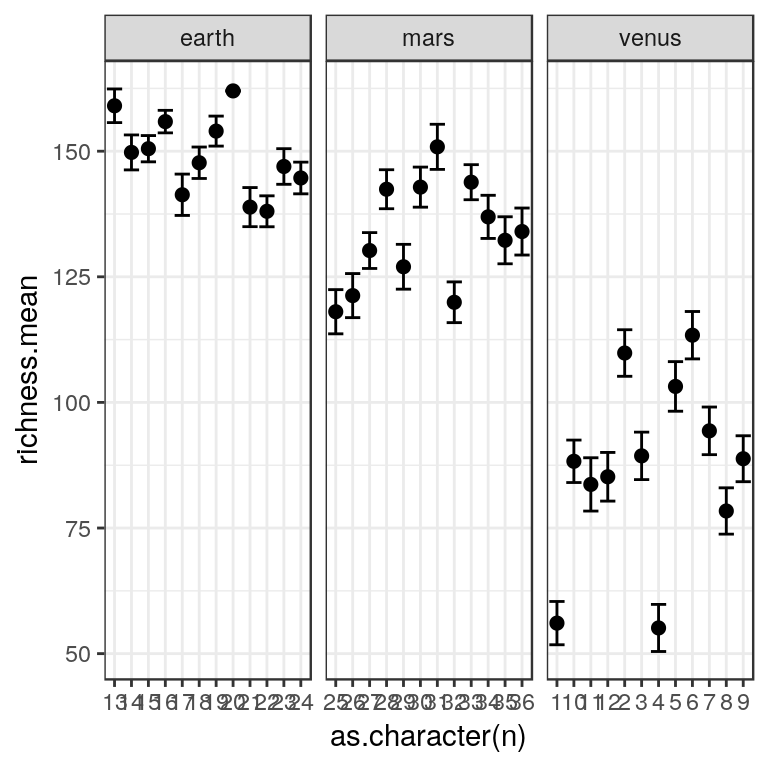
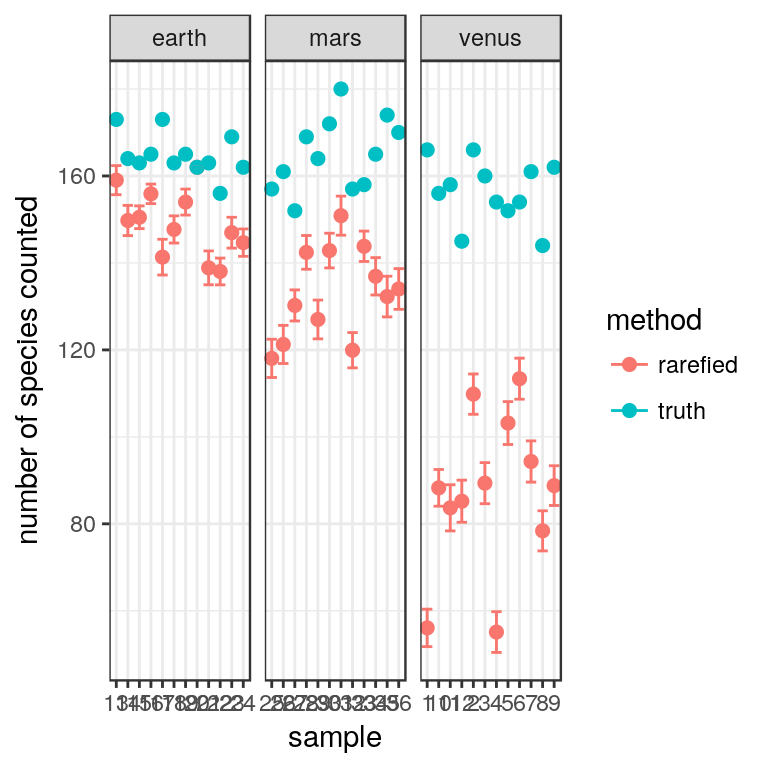
Added "truth" for rarefaction plot

diff --git a/docs/articles/CompoData.html b/docs/articles/CompoData.html
@@ -68,7 +68,7 @@
 <div id="e-g-in-microbiomes-or-transcriptomes" class="section level2">
 <h2 class="hasAnchor">
 <a href="#e-g-in-microbiomes-or-transcriptomes" class="anchor"></a>(e.g. in microbiomes or transcriptomes)</h2>
-<p>Standard analyses of abundance estimates genereated from sequencing treat the generated data as counts. Methods for differential abundance estimation in RNAseq data have probably recieved most attention in this regard (<a href="https://genomebiology.biomedcentral.com/articles/10.1186/s13059-014-0550-8">see e.g. this for one of the current approaches</a>). Many (if not all) of the methods developed for analyses of count data derived from transcriptomes are also applied to amplicon sequencing data. On the other hand techniques from classical community ecolgy are applied on data from transcriptomics or amplicon sequencing alike (mostly after <em>transforming</em> it to count data).</p>
+<p>Standard analyses of abundance estimates genereated from sequencing treat the generated data as counts. Methods for differential abundance estimation in RNAseq data have probably recieved most attention in this regard (<a href="https://genomebiology.biomedcentral.com/articles/10.1186/s13059-014-0550-8">see e.g. this for one of the current approaches</a>). Many (if not all) of the methods developed for analyses of count data derived from transcriptomes are also applied to amplicon sequencing data. On the other hand techniques from classical community ecology are applied on data from transcriptomics or amplicon sequencing alike (mostly after <em>transforming</em> it to count data).</p>
 <p>In the field of amplicon sequencing there are currently concernes that analysis of “compositional data” as counts can introduce biases (<a href="https://www.ncbi.nlm.nih.gov/pmc/articles/PMC5695134/">e.g. reviewd here</a>, refering in its core to <a href="https://www.amazon.de/Statistical-Compositional-Monographs-Statistics-Probability/dp/0412280604">Aitchison, J. (1986)</a>).</p>
 <p>This document aims to give an introduction to the challenges that are posed by compositional data produced to assess transcriptomes via RNAseq or microbiomes via amplicon sequencing. I will give an “abstract” introduction into:</p>
 <ol style="list-style-type: decimal">
@@ -256,12 +256,23 @@ rich.mat &lt;-<span class="st"> </span><span class="kw">matrix</span>(<span clas
 richness &lt;-<span class="st"> </span><span class="kw">data.frame</span>(<span class="dt">planet=</span>colData$planet,
                        <span class="dt">richness.mean=</span><span class="kw">rowMeans</span>(rich.mat),
                        <span class="dt">richness.sd=</span><span class="kw">apply</span>(rich.mat, <span class="dv">1</span>, sd),
-                       <span class="dt">n=</span><span class="dv">1</span>:<span class="kw">nrow</span>(rich.mat))
+                       <span class="dt">n=</span><span class="dv">1</span>:<span class="kw">nrow</span>(rich.mat),
+                       <span class="dt">method=</span><span class="st">"rarefied"</span>)
 
-<span class="kw">ggplot</span>(richness, <span class="kw">aes</span>(<span class="kw">as.character</span>(n), richness.mean)) +
+richness.plain &lt;-<span class="st"> </span><span class="kw">data.frame</span>(<span class="dt">planet=</span>colData$planet,
+                       <span class="dt">richness.mean=</span><span class="kw">colSums</span>(countData&gt;<span class="dv">0</span>), 
+                       <span class="dt">richness.sd=</span><span class="dv">0</span>,
+                       <span class="dt">n=</span><span class="dv">1</span>:<span class="kw">nrow</span>(rich.mat),
+                       <span class="dt">method=</span><span class="st">"truth"</span>)
+
+richness &lt;-<span class="st"> </span><span class="kw">rbind</span>(richness, richness.plain)
+
+<span class="kw">ggplot</span>(richness, <span class="kw">aes</span>(<span class="kw">as.character</span>(n), richness.mean, <span class="dt">color=</span>method)) +
 <span class="st">    </span><span class="kw">geom_point</span>(<span class="dt">size=</span><span class="dv">2</span>) +
 <span class="st">    </span><span class="kw">geom_errorbar</span>(<span class="kw">aes</span>(<span class="dt">ymin=</span>richness.mean-richness.sd,
-                      <span class="dt">ymax=</span>richness.mean+richness.sd))+
+                      <span class="dt">ymax=</span>richness.mean+richness.sd)) +
+<span class="st">    </span><span class="kw">scale_x_discrete</span>(<span class="st">"sample"</span>) +
+<span class="st">    </span><span class="kw">scale_y_continuous</span>(<span class="st">"number of species counted"</span>) +
 <span class="st">    </span><span class="kw">facet_wrap</span>(~planet, <span class="dt">scales=</span><span class="st">"free_x"</span>)</code></pre></div>
 <p><img src="CompoData_files/figure-html/unnamed-chunk-6-1.png" width="384"><img src="CompoData_files/figure-html/unnamed-chunk-6-2.png" width="384"></p>
 <p>Uh, we are screwed again!</p>
@@ -347,6 +358,63 @@ res.aldex &lt;-<span class="st"> </span><span class="kw"><a href="http://www.rdo
 <p><img src="CompoData_files/figure-html/unnamed-chunk-8-1.png" width="384"></p>
 <p>The problem here is that the neither the geometric mean nor the log can be calculated for zero-count samples. After our naive solution (adding a small number) we used a package which “converts the single estimate to a probability vector”. This uses Monte-Carlo sampling from the Dirichlet distribution (<a href="https://doi.org/10.17713/ajs.v45i4.122">ref</a>).</p>
 <div class="sourceCode"><pre class="sourceCode r"><code class="sourceCode r">res &lt;-<span class="st"> </span><span class="kw">merge</span>(res.aldex, <span class="kw">as.data.frame</span>(res.deseq), <span class="dt">by=</span><span class="dv">0</span>)
+<span class="co">#&gt; Loading required package: DESeq2</span>
+<span class="co">#&gt; Loading required package: S4Vectors</span>
+<span class="co">#&gt; Loading required package: stats4</span>
+<span class="co">#&gt; Loading required package: BiocGenerics</span>
+<span class="co">#&gt; Loading required package: parallel</span>
+<span class="co">#&gt; </span>
+<span class="co">#&gt; Attaching package: 'BiocGenerics'</span>
+<span class="co">#&gt; The following objects are masked from 'package:parallel':</span>
+<span class="co">#&gt; </span>
+<span class="co">#&gt;     clusterApply, clusterApplyLB, clusterCall, clusterEvalQ,</span>
+<span class="co">#&gt;     clusterExport, clusterMap, parApply, parCapply, parLapply,</span>
+<span class="co">#&gt;     parLapplyLB, parRapply, parSapply, parSapplyLB</span>
+<span class="co">#&gt; The following objects are masked from 'package:stats':</span>
+<span class="co">#&gt; </span>
+<span class="co">#&gt;     IQR, mad, sd, var, xtabs</span>
+<span class="co">#&gt; The following objects are masked from 'package:base':</span>
+<span class="co">#&gt; </span>
+<span class="co">#&gt;     anyDuplicated, append, as.data.frame, cbind, colMeans,</span>
+<span class="co">#&gt;     colnames, colSums, do.call, duplicated, eval, evalq, Filter,</span>
+<span class="co">#&gt;     Find, get, grep, grepl, intersect, is.unsorted, lapply,</span>
+<span class="co">#&gt;     lengths, Map, mapply, match, mget, order, paste, pmax,</span>
+<span class="co">#&gt;     pmax.int, pmin, pmin.int, Position, rank, rbind, Reduce,</span>
+<span class="co">#&gt;     rowMeans, rownames, rowSums, sapply, setdiff, sort, table,</span>
+<span class="co">#&gt;     tapply, union, unique, unsplit, which, which.max, which.min</span>
+<span class="co">#&gt; </span>
+<span class="co">#&gt; Attaching package: 'S4Vectors'</span>
+<span class="co">#&gt; The following objects are masked from 'package:reshape':</span>
+<span class="co">#&gt; </span>
+<span class="co">#&gt;     expand, rename</span>
+<span class="co">#&gt; The following object is masked from 'package:base':</span>
+<span class="co">#&gt; </span>
+<span class="co">#&gt;     expand.grid</span>
+<span class="co">#&gt; Loading required package: IRanges</span>
+<span class="co">#&gt; Loading required package: GenomicRanges</span>
+<span class="co">#&gt; Loading required package: GenomeInfoDb</span>
+<span class="co">#&gt; Loading required package: SummarizedExperiment</span>
+<span class="co">#&gt; Loading required package: Biobase</span>
+<span class="co">#&gt; Welcome to Bioconductor</span>
+<span class="co">#&gt; </span>
+<span class="co">#&gt;     Vignettes contain introductory material; view with</span>
+<span class="co">#&gt;     'browseVignettes()'. To cite Bioconductor, see</span>
+<span class="co">#&gt;     'citation("Biobase")', and for packages 'citation("pkgname")'.</span>
+<span class="co">#&gt; Loading required package: DelayedArray</span>
+<span class="co">#&gt; Loading required package: matrixStats</span>
+<span class="co">#&gt; </span>
+<span class="co">#&gt; Attaching package: 'matrixStats'</span>
+<span class="co">#&gt; The following objects are masked from 'package:Biobase':</span>
+<span class="co">#&gt; </span>
+<span class="co">#&gt;     anyMissing, rowMedians</span>
+<span class="co">#&gt; </span>
+<span class="co">#&gt; Attaching package: 'DelayedArray'</span>
+<span class="co">#&gt; The following objects are masked from 'package:matrixStats':</span>
+<span class="co">#&gt; </span>
+<span class="co">#&gt;     colMaxs, colMins, colRanges, rowMaxs, rowMins, rowRanges</span>
+<span class="co">#&gt; The following object is masked from 'package:base':</span>
+<span class="co">#&gt; </span>
+<span class="co">#&gt;     apply</span>
 
 <span class="kw">ggplot</span>(res, <span class="kw">aes</span>(glm.eBH, padj)) +
 <span class="st">    </span><span class="kw">geom_point</span>() +
